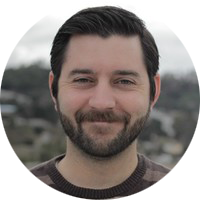
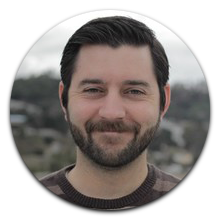
Contact css & image

diff --git a/index.html b/index.html
@@ -81,6 +81,7 @@
         </div>
 
         <div id="contact-content" class="piece-content" style="display: none;">
+            <img src="/images/contact/contact.png" alt="Contact image" class="piece-image">
         
             <h1>Let's talk!</h1>
             <p>Please use one of the following methods to get in touch:</p>
@@ -89,9 +90,11 @@
                 <li><a href="https://www.linkedin.com/in/david-mahoney" target="_blank" rel="noopener noreferrer">LinkedIn</a></li>
             </ul>
             
+            <div style="clear: both;"></div> <!-- This div clears the float (piece-image) -->
+            
             <h2>Contact form</h2>
             <form id="contactForm" action="https://formspree.io/f/xldrznng" method="POST">
-                <p>* Required</p>
+                <p><em>* Required</em></p>
                 
                 <div class="form-group">
                     <input type="text" id="name" name="name" placeholder="Name*" required>
